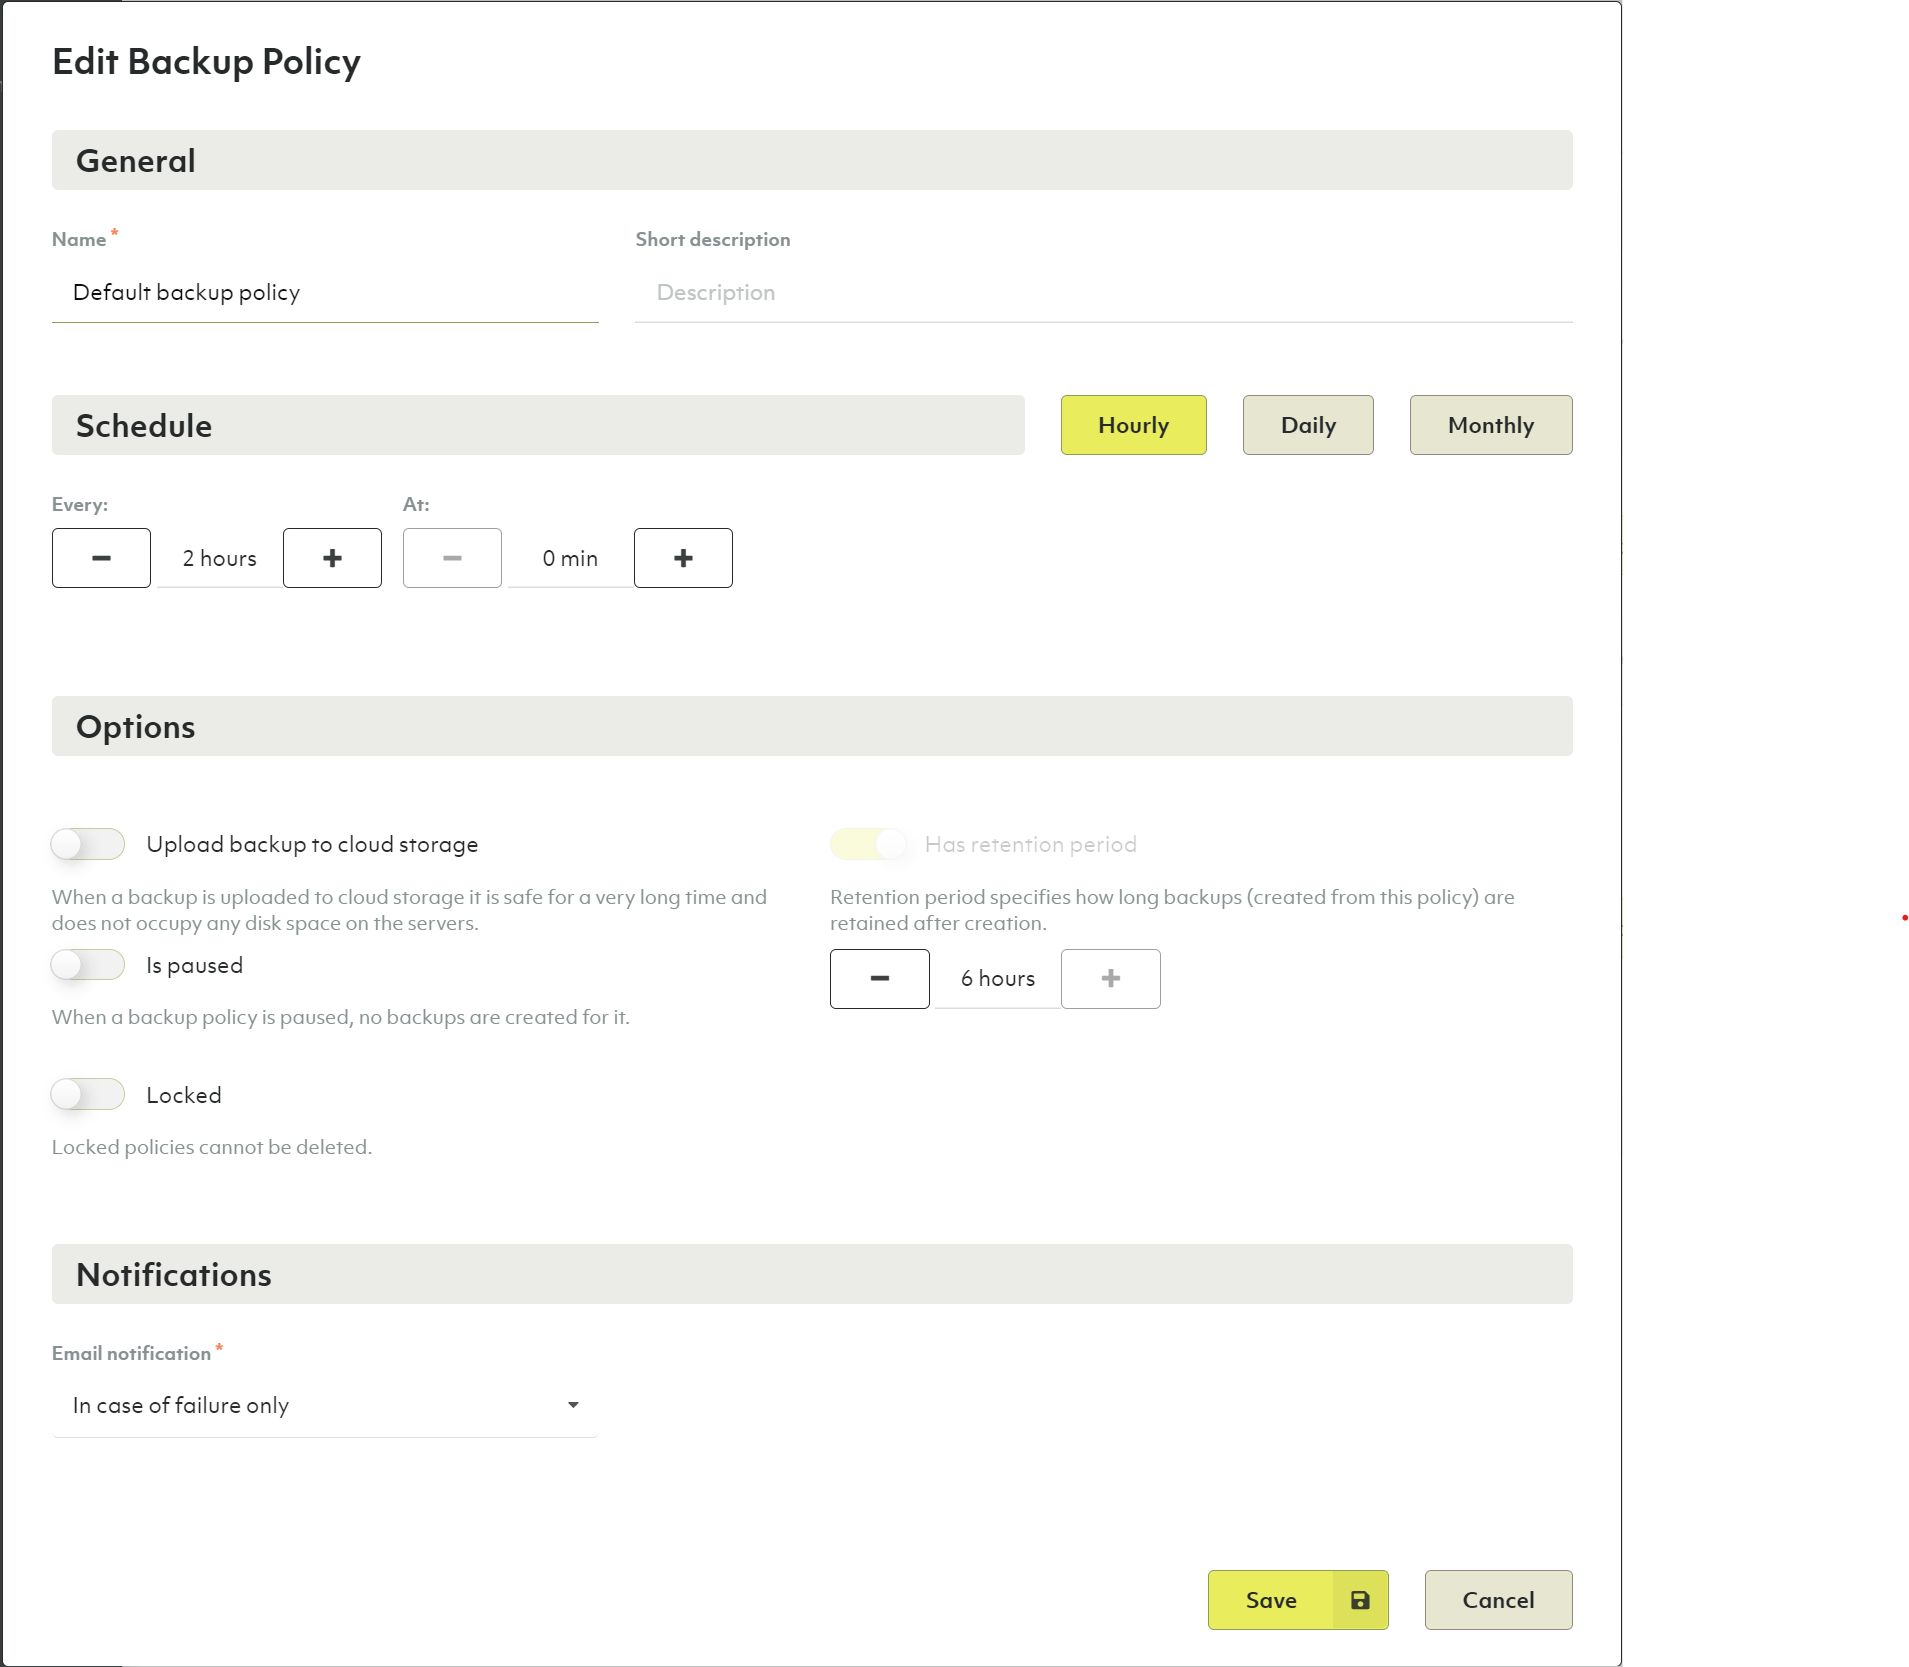
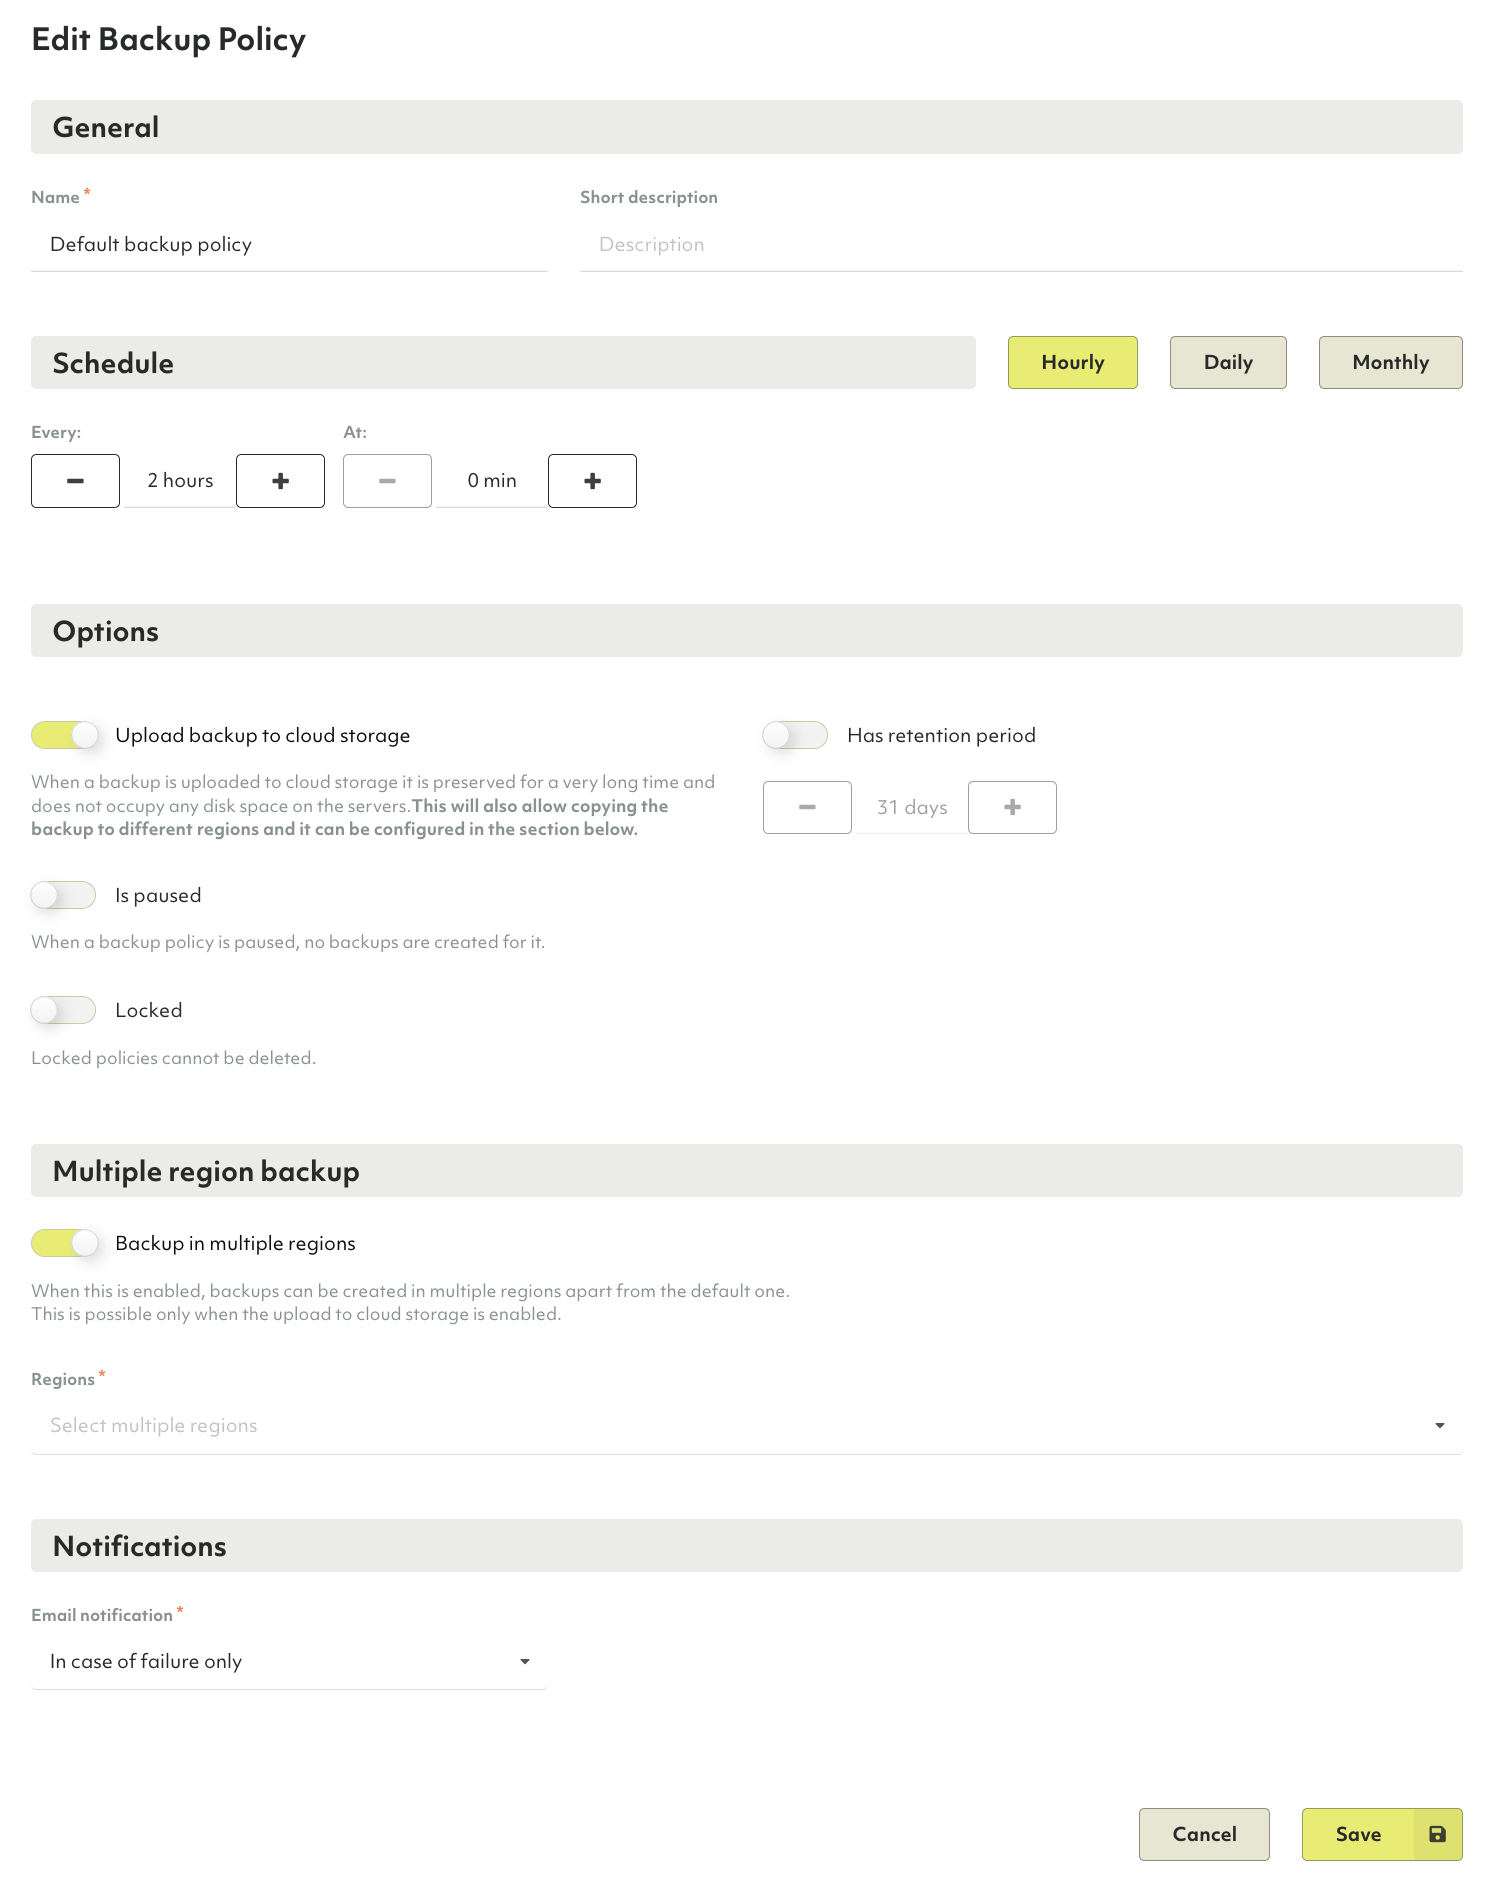
DOC 192 / ArangoGraph multi-region backups (#1192)
* added multi-region backups

* Apply suggestions from code review

* apply review suggestions

* note about enterprise tier only

* Update backups.md

* apply review suggestions

diff --git a/arangograph/backups.md b/arangograph/backups.md
@@ -14,6 +14,8 @@ To backup data in ArangoGraph for an ArangoDB installation, navigate to the
 
 There are two ways to create backups. Create periodic backups using a
 **Backup policy**, or create a backup manually.
+Both ways allow you to create [backups in multiple regions](#multi-region-backups)
+as well, if your organization belongs to the Enteprise tier.
 
 ### Periodic backups
 
@@ -23,12 +25,20 @@ due, observe the schedule section.
 ![Backup Policy schedule](images/arangograph-backup-policy-schedule.png)
 
 When a new deployment is created, a default **Backup policy** is created for it
-as well. This policy will create backups every two hours. To edit this policy
+as well. This policy creates backups every two hours. To edit this policy
 (or any policy), highlight it in the row above and hit the pencil icon.
 
 ![Edit Backup Policy](images/arangograph-edit-backup-policy.png)
 
-These backups are not automatically uploaded.
+These backups are not automatically uploaded. To enable this, use the
+**Upload backup to storage** option and choose a retention period that
+specifies how long backups are retained after creation. 
+
+If your organization belongs to the Enterprise tier and the
+**Upload backup to storage** option is enabled for a backup policy,
+you can then create backups in different regions than the default one.
+The regions where the default backup is copied are shown in the
+**Additional regions** column in the **Policies** section.
 
 ### Manual backups
 
@@ -38,20 +48,62 @@ It's also possible to create a backup on demand. To do this, click **Back up now
 
 ![Back up Now Dialog](images/arangograph-back-up-now-dialog.png)
 
+If your organization belongs to the Enterprise tier and you want to manually
+copy a backup to a different region than the default
+one, first ensure that the **Upload backup to storage** option is enabled.
+Then, highlight the backup row and use the
+**Copy backup to a different region** button from the **Actions** column. 
+
+The source backup ID from
+which the copy is created is displayed in the **Copied from Backup** column.
+
+![Copy backup to a different region](images/arangograph-copy-backup-different-region.png)
+
+![Multiple Backups](images/arangograph-multiple-backups.png)
+
 ### Uploading backups
 
-By default a backup is not uploaded to the cloud, instead it remains on the
+By default, a backup is not uploaded to the cloud, instead it remains on the
 servers of the deployment. To make a backup that is resilient against server
-(disk) failures, upload the backup to cloud storage. Uploaded backups are
+(disk) failures, upload the backup to cloud storage. 
+
+When the **Upload backup to cloud storage option** is enabled, the backup is
+preserved for a long time and does not occupy any disk space on the servers.
+This also allows copying the backup to different regions and it can be
+configured in the **Multiple region backup** section.
+
+Uploaded backups are
 required for [cloning](#how-to-clone-deployments-using-backups).
+
+## Multi-region backups
+
+{% hint 'info' %}
+The multi-region backup feature is only available for the ArangoGraph
+Enterprise tier. To upgrade to the Enterprise tier,
+[get in touch](https://www.arangodb.com/contact/){:target="_blank"}
+with the ArangoDB team.
+{% endhint %}
+
+Using the multi-region backup feature, you can store backups in multiple regions
+simultaneously either manually or automatically as part of a **Backup policy**.
+If a backup created in one region goes down, it is still available in other
+regions, significantly improving reliability. 
+
+Multiple region backup is only available when the
+**Upload backup to cloud storage** option is enabled.
+
+![Multiple Region Backup](images/arangograph-multi-region-backup.png)
 
 ## How to restore backups
 
 To restore a database from a backup, highlight the desired backup and click the restore icon.
 
 {% hint 'warning' %}
-All current data will be lost when restoring.
-During restore the deployment is temporarily not available.
+All current data will be lost when restoring. To make sure that new data that
+has been inserted after the backup creation is also restored, create a new 
+backup before using the **Restore Backup** feature. 
+
+During restore, the deployment is temporarily not available.
 {% endhint %}
 
 ![Restore From Backup](images/arangograph-restore-from-backup.png)
@@ -66,17 +118,27 @@ During restore the deployment is temporarily not available.
 
 {% hint 'info' %}
 The cloned deployment will have the exact same features as the previous
-deployment including node size, model, cloud provider & region. The data
-contained in the backup will be restored to this new deployment.
+deployment including node size, model, and cloud provider. The region
+can stay the same or you can select a different one if your organization belongs
+to the Enterprise tier.
+For restoring a deployment as quick as possible, it is recommended to create a
+deployment in the same region as where the backup resides to avoid cross-region
+data transfer.
+The data contained in the backup will be restored to this new deployment.
 
 The *root password* for this deployment will be different.
 {% endhint %}
 
-1. Highlight the backup you wish to clone from and hit **Clone backup to new deployment**
+1. Highlight the backup you wish to clone from and hit **Clone backup to new deployment**.
 
    ![ArangoGraph Clone Deployment From Backup](images/arangograph-clone-deployment-from-backup.png)
 
-2. The view should navigate to the new deployment being bootstrapped
+2. Choose whether the clone should be created in the same region as the backup or in a
+   different region.
+
+   ![ArangoGraph Clone Deployment Select Region](images/arangograph-clone-select-region.png) 
+
+3. The view should navigate to the new deployment being bootstrapped.
 
    ![ArangoGraph Cloned Deployment](images/arangograph-cloned-deployment.png)
 
